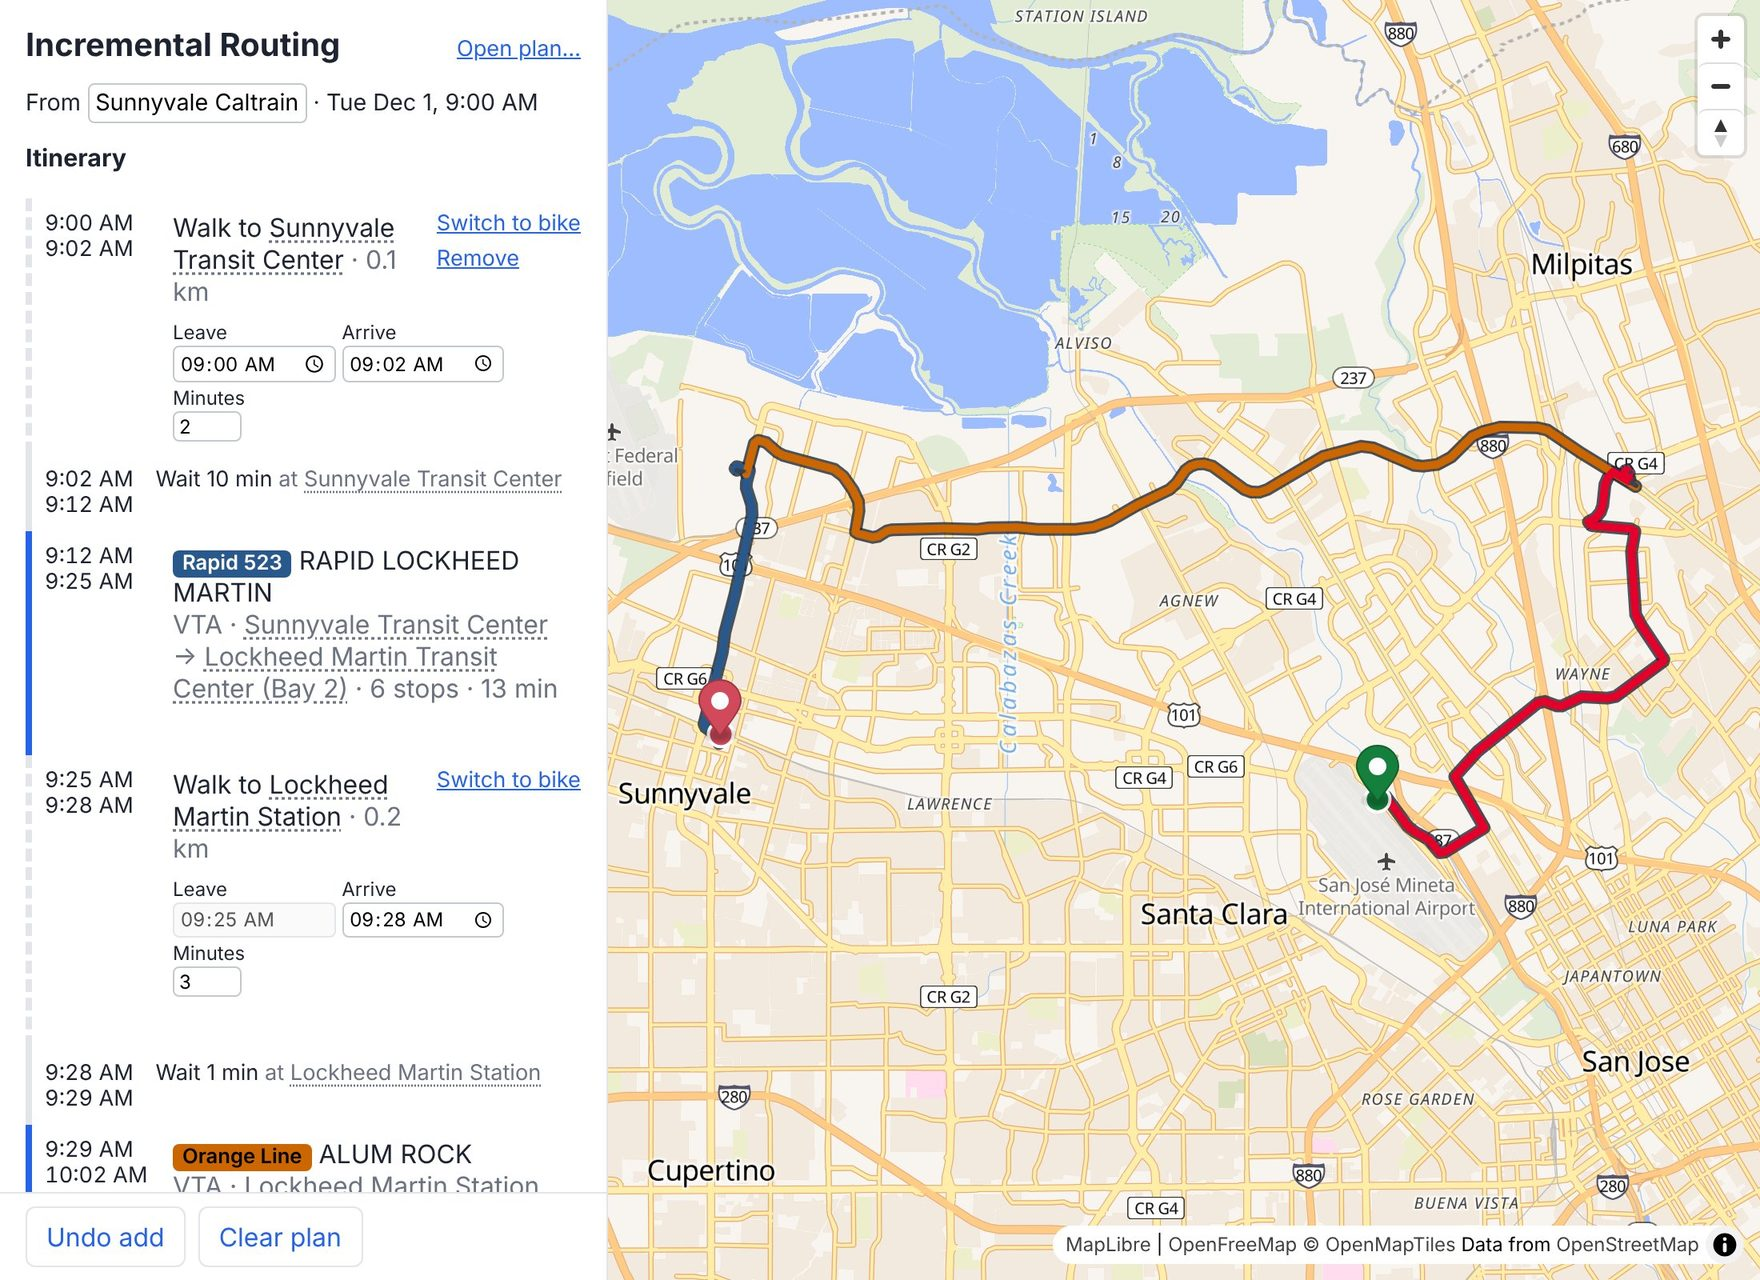
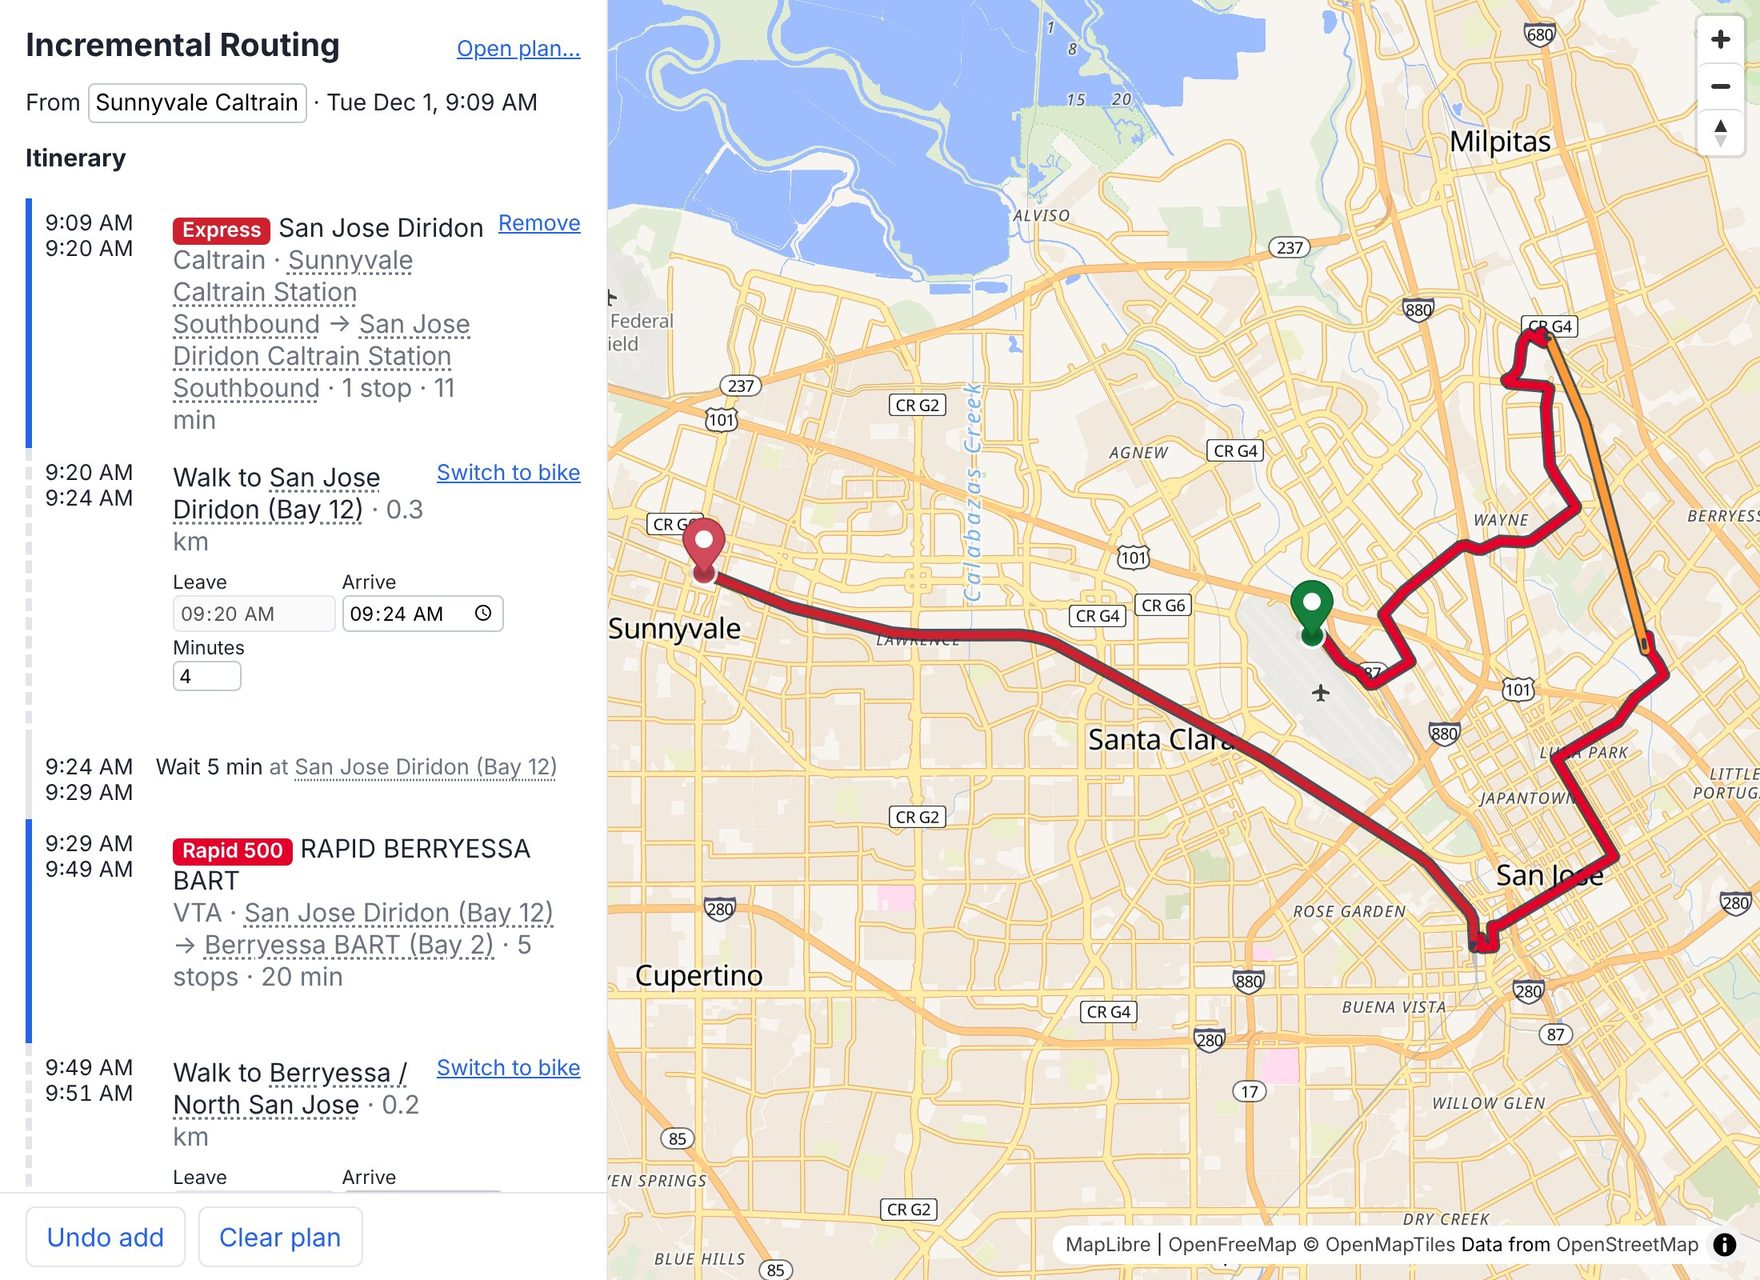
Make the long-way example Caltrain, the Rapid 500, BART and the 60
The fifth README example now rides the 9:09 Caltrain Express from Sunnyvale
past the airport to San José Diridon, the Rapid 500 to Berryessa, BART one
stop to Milpitas and the 60 from there to Terminal A (10:39), across three
agencies, instead of the Rapid 523 and the Orange Line. It starts on the
southbound platform at 9:09, so the trip begins with the train rather than a
wait. A journey planner's answer, the 9:28 Caltrain to Santa Clara and the
60, arrives at 10:03.

Claude-Session: https://claude.ai/code/session_013DZrBsdSY5SJGniaLH9cDQ

diff --git a/README.md b/README.md
@@ -57,15 +57,15 @@ a wait and the Caltrain Express, with the trip from San Jose to the Marina on th
 map](docs/screenshots/trip-4-three-agencies.jpg)
 
 **The long way, for fun.** Sunnyvale Caltrain to San José airport. A journey planner would send
-you south on Caltrain to Santa Clara and then on the 60, arriving at 10:03. Here you choose
-every ride instead: the Rapid 523 north to Lockheed Martin, 14 stops of VTA's Orange Line light
-rail across North San Jose to Milpitas, and the 60 from the other end of its route, into
-Terminal A at 10:39.
-Planning one leg at a time makes room for a ride you want to take, not just the quickest one.
+you on the 9:28 Caltrain to Santa Clara and then the 60, into Terminal A at 10:03. Here you
+choose every ride instead, across three agencies: the 9:09 Caltrain Express past the airport to
+San José Diridon, the Rapid 500 to Berryessa, BART one stop to Milpitas, and the 60 from the
+other end of its route, into Terminal A at 10:39. Planning one leg at a time makes room for a
+ride you want to take, not just the quickest one.
 
-![The itinerary for the Rapid 523 from Sunnyvale to Lockheed Martin and the start of the Orange
-Line, with a loop on the map from Sunnyvale north and east to Milpitas, then south to the
-airport](docs/screenshots/trip-5-the-long-way.jpg)
+![The itinerary for the Caltrain Express from Sunnyvale to San José Diridon, a walk and a wait,
+and the Rapid 500 to Berryessa, with a loop on the map from Sunnyvale to downtown San José, north
+to Milpitas and back south to the airport](docs/screenshots/trip-5-the-long-way.jpg)
 
 ## Run it with Docker
 
